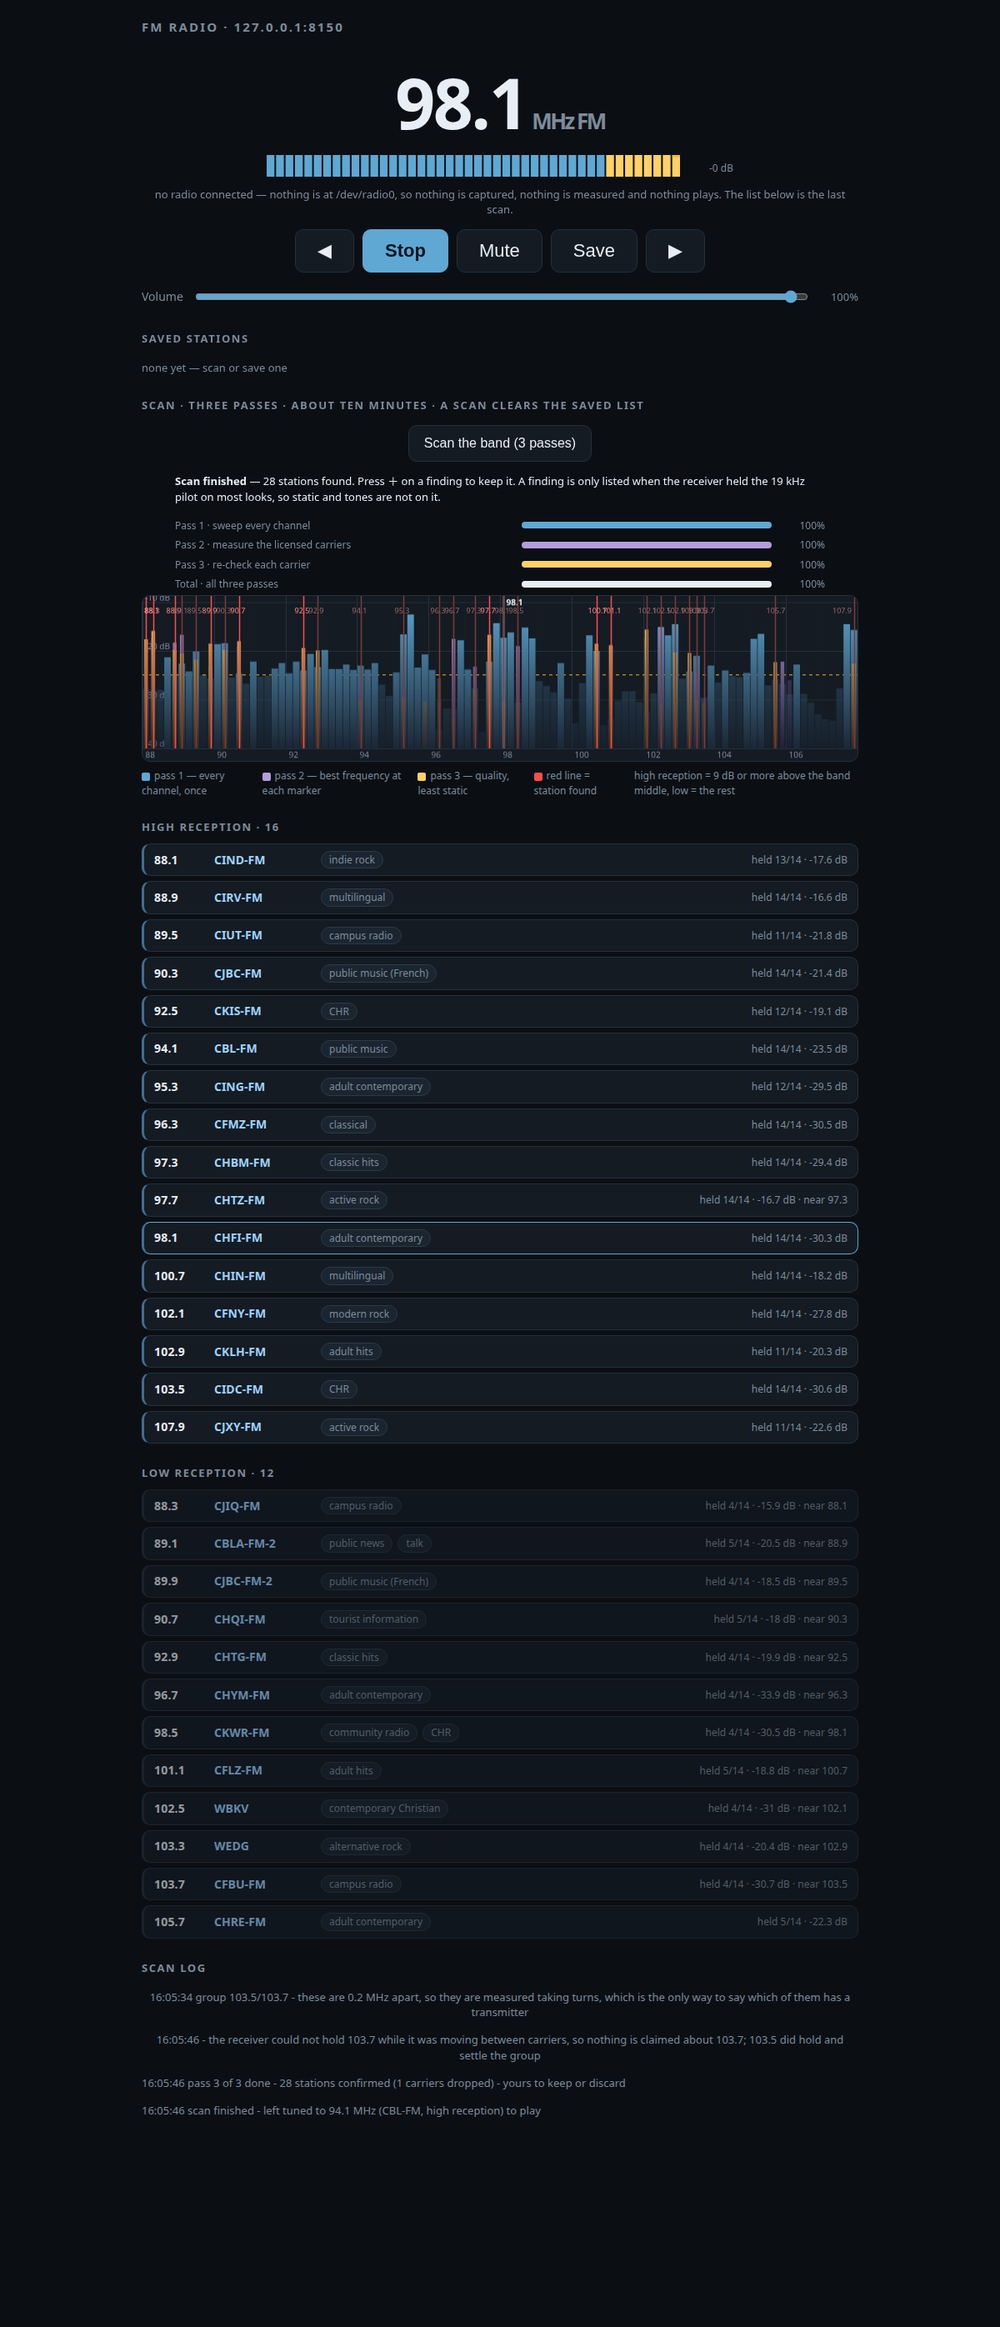
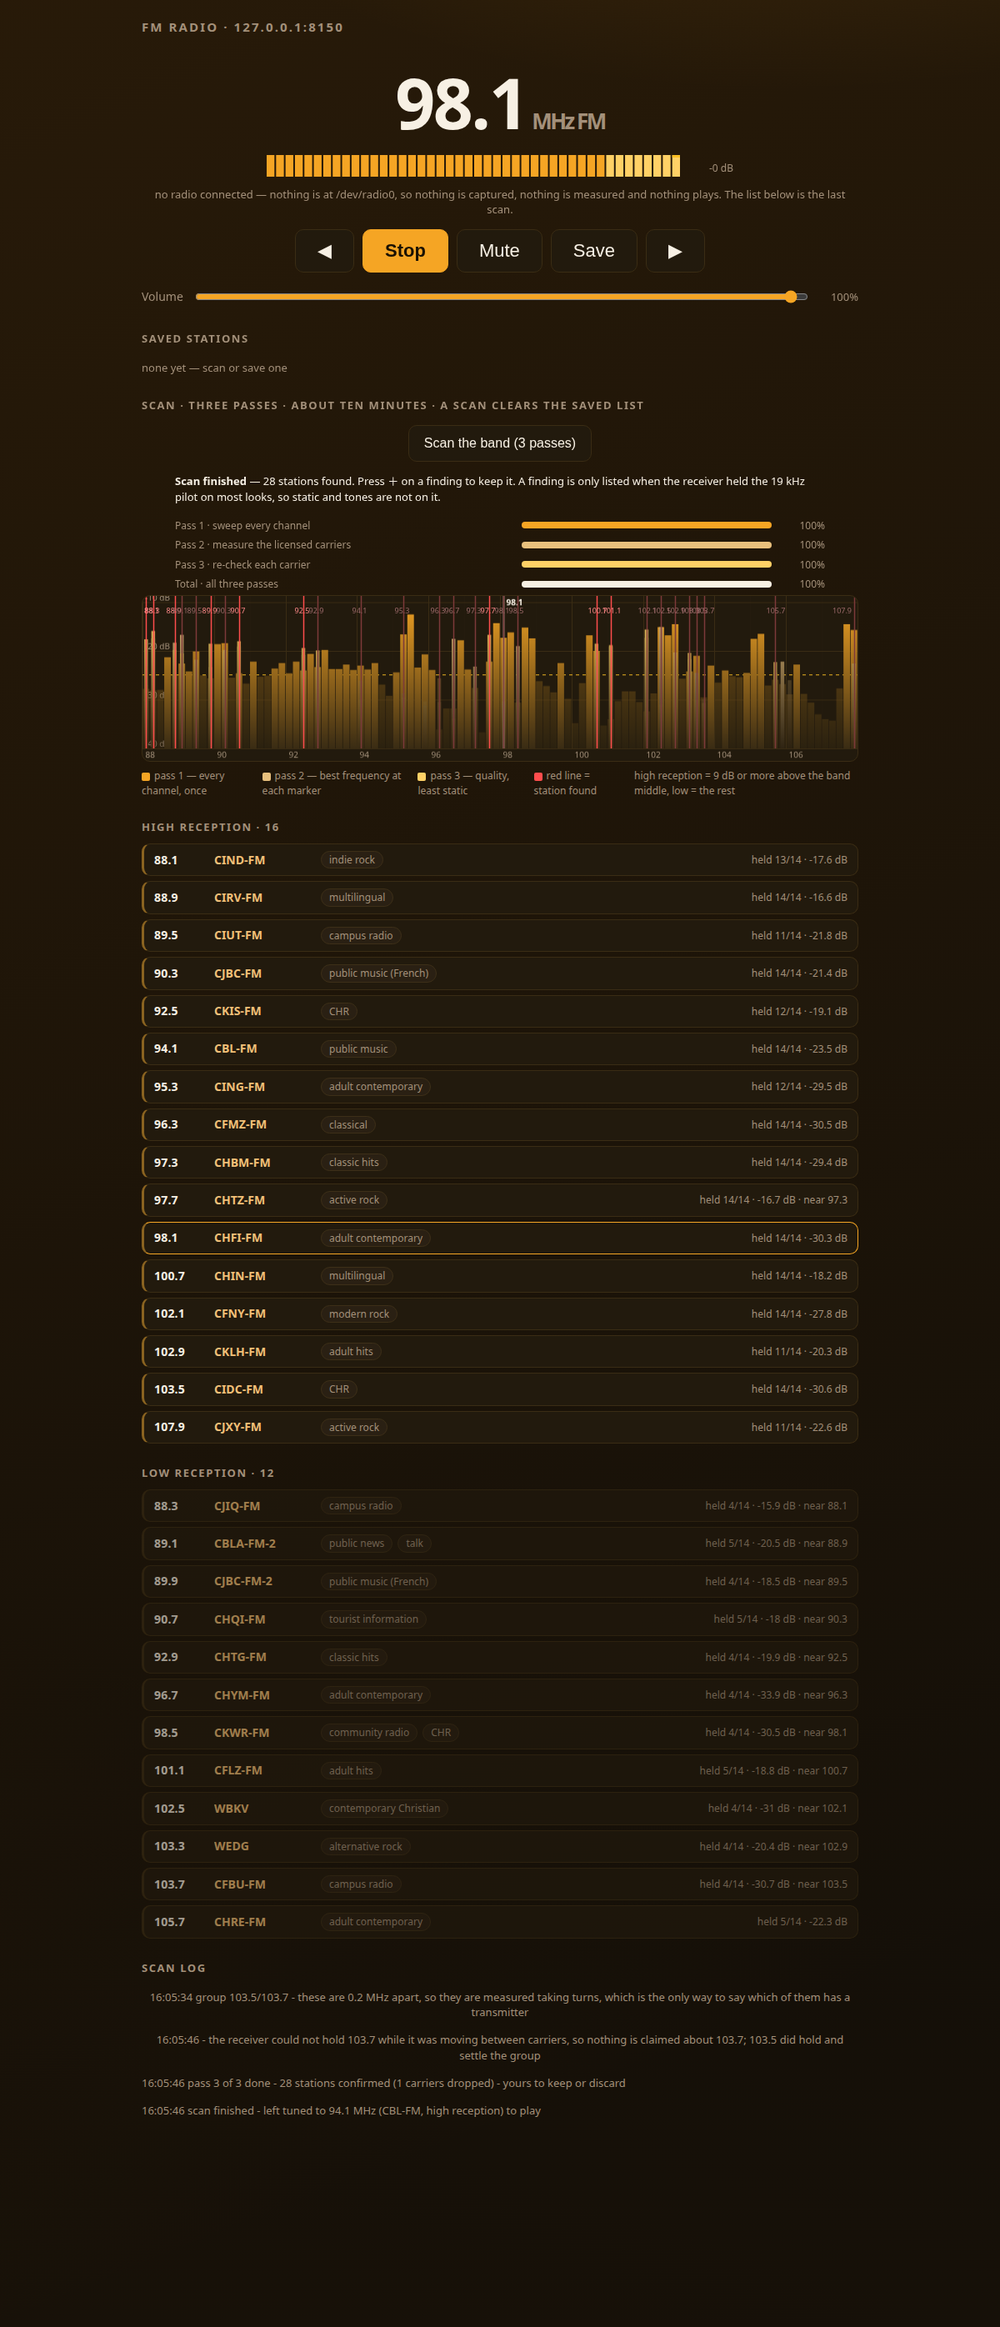
Put the app on the site's own palette, and refresh the screenshot
The background is the site's colour (#140f08) with the family's treatment — the same three
gradients that fade to nothing, on a fixed layer — and the accents follow it: card, hairline,
dim text and the amber accent, including the colours the spectrum chart draws with. A warm
background with cool blue chrome reads as two designs, which is what it was.

diff --git a/fm_radio.py b/fm_radio.py
@@ -1463,8 +1463,17 @@ def scan_worker():
 PAGE = """<!doctype html><html lang="en"><head><meta charset="utf-8">
 <title>127.0.0.1:8150</title><meta name="viewport" content="width=device-width,initial-scale=1">
 <style>
-:root{--bg:#0b0f14;--fg:#e8eef5;--dim:#7d8b9a;--acc:#5fa8d3;--card:#141b23;--warn:#fbbf24}
-*{box-sizing:border-box}body{margin:0;background:var(--bg);color:var(--fg);
+/* 🔴 THE BACKGROUND IS THE SITE'S OWN COLOUR, AND ITS TREATMENT IS THE FAMILY'S — the same warm
+   near-black and the same three gradients that fade to nothing (a gradient wash, never bands),
+   so the app and its page read as one product rather than two. The accents come from the same
+   palette for the same reason: a warm background with cool blue chrome looks like two designs. */
+:root{--bg:#140f08;--fg:#f7f0e4;--dim:#a3907a;--acc:#f5a524;--card:#221a0d;--line:#3a2c14;--warn:#fbbf24}
+*{box-sizing:border-box}body{margin:0;color:var(--fg);
+background-color:var(--bg);
+background-image:radial-gradient(1100px 520px at 78% -6%,rgba(245,165,36,.13),transparent 72%),
+linear-gradient(158deg,rgba(180,105,12,.12),transparent 58%),
+linear-gradient(18deg,rgba(120,70,8,.1),transparent 52%);
+background-attachment:fixed;
 font:16px/1.45 system-ui,-apple-system,Segoe UI,sans-serif;padding:22px}
 h1{font-size:15px;font-weight:600;letter-spacing:.14em;text-transform:uppercase;color:var(--dim);margin:0 0 18px}
 .wrap{max-width:860px;margin:0 auto}
@@ -1474,11 +1483,11 @@ h1{font-size:15px;font-weight:600;letter-spacing:.14em;text-transform:uppercase;
 .meter canvas{width:100%;height:26px;display:block}
 .meter span{min-width:54px;text-align:right;font-size:12px}
 .row{display:flex;gap:10px;flex-wrap:wrap;justify-content:center;margin:14px 0}
-button{background:var(--card);color:var(--fg);border:1px solid #24303c;border-radius:10px;
+button{background:var(--card);color:var(--fg);border:1px solid var(--line);border-radius:10px;
 padding:12px 18px;font-size:16px;cursor:pointer}
-button:hover{border-color:#3a4a5c}button.big{font-size:22px;padding:12px 26px}
-button.on{background:var(--acc);color:#06131d;border-color:var(--acc);font-weight:700}
-input{background:var(--card);color:var(--fg);border:1px solid #24303c;border-radius:10px;
+button:hover{border-color:#5a4520}button.big{font-size:22px;padding:12px 26px}
+button.on{background:var(--acc);color:#1a1103;border-color:var(--acc);font-weight:700}
+input{background:var(--card);color:var(--fg);border:1px solid var(--line);border-radius:10px;
 padding:12px;font-size:18px;width:110px;text-align:center}
 .pgh{color:var(--fg);font-size:13px;max-width:780px;margin:14px auto 0;text-align:left;line-height:1.5}
 .prog{max-width:780px;margin:12px auto 2px}
@@ -1489,9 +1498,9 @@ color:var(--dim);font-size:12px;padding:3px 0}
 .pgrow.now{color:var(--fg)}.pgrow.now .pgl{font-weight:700}.pgv{text-align:right}
 @media(max-width:800px){.pgrow{grid-template-columns:1fr 120px 46px}}
 .list{display:flex;gap:8px;flex-wrap:wrap}
-.chip{background:var(--card);border:1px solid #24303c;border-radius:99px;padding:8px 14px;cursor:pointer}
+.chip{background:var(--card);border:1px solid var(--line);border-radius:99px;padding:8px 14px;cursor:pointer}
 .chip:hover{border-color:var(--acc)}.chip.cur{border-color:var(--acc);color:var(--acc);font-weight:700}
-.chip.hi{border-color:#3f6f92}.chip.lo{opacity:.55}
+.chip.hi{border-color:#8a6320}.chip.lo{opacity:.55}
 .chip x{color:var(--dim);margin-left:8px}.chip .cl{color:var(--dim);font-style:normal;font-size:12px;margin-left:6px}
 /* 🔴 A LIST, NOT A BAG OF CHIPS: frequency, call sign and the genres, one
    station per line, in frequency order. The frequency column is a fixed width and the digits are
@@ -1505,16 +1514,16 @@ color:var(--dim);font-size:12px;padding:3px 0}
 #sthi,#stlo{display:flex;flex-direction:column;flex-wrap:nowrap;gap:6px;align-items:stretch}
 #sthi .strow,#stlo .strow{width:100%}
 .strow{display:grid;grid-template-columns:62px 118px minmax(0,1fr) auto;gap:10px;align-items:center;
-background:var(--card);border:1px solid #24303c;border-left:3px solid #24303c;border-radius:10px;
+background:var(--card);border:1px solid var(--line);border-left:3px solid var(--line);border-radius:10px;
 padding:8px 12px;cursor:pointer;font-size:14px}
 .strow:hover{border-color:var(--acc);border-left-color:var(--acc)}
 .strow.cur{border-color:var(--acc);border-left-color:var(--acc)}
-.strow.hi{border-left-color:#3f6f92}
+.strow.hi{border-left-color:#8a6320}
 .strow.lo{opacity:.62}
 .strow .fq{font-variant-numeric:tabular-nums;font-weight:700;letter-spacing:.2px}
-.strow .cs{color:#9fd3ff;font-weight:600;white-space:nowrap;overflow:hidden;text-overflow:ellipsis}
+.strow .cs{color:#f2c078;font-weight:600;white-space:nowrap;overflow:hidden;text-overflow:ellipsis}
 .strow .gn{display:flex;gap:6px;flex-wrap:wrap;min-width:0}
-.strow .gt{background:#1b2530;border:1px solid #2b3a49;border-radius:99px;padding:1px 9px;
+.strow .gt{background:#2a2013;border:1px solid #3d2f18;border-radius:99px;padding:1px 9px;
 font-size:12px;font-style:normal;color:var(--dim);white-space:nowrap}
 .strow .ev{color:var(--dim);font-size:12px;text-align:right;white-space:nowrap}
 /* THE VOLUME SLIDER. It sets the RADIO's own capture level, not the machine's speaker volume, so
@@ -1527,15 +1536,15 @@ accent-color:var(--acc);cursor:pointer}
 text-align:right}
 .note{color:var(--dim);font-size:13px;text-align:center;margin-top:6px}
 h2{font-size:13px;letter-spacing:.12em;text-transform:uppercase;color:var(--dim);margin:26px 0 10px}
-#cv{width:100%;height:200px;display:block;background:var(--card);border:1px solid #24303c;border-radius:10px;cursor:crosshair}
+#cv{width:100%;height:200px;display:block;background:var(--card);border:1px solid var(--line);border-radius:10px;cursor:crosshair}
 .legend{display:flex;gap:18px;justify-content:center;color:var(--dim);font-size:12px;margin-top:8px}
-#toast{position:fixed;left:50%;transform:translateX(-50%);bottom:26px;background:#141b23;
+#toast{position:fixed;left:50%;transform:translateX(-50%);bottom:26px;background:#221a0d;
 border:1px solid var(--acc);color:var(--fg);padding:12px 20px;border-radius:12px;font-size:15px;
 opacity:0;transition:opacity .3s;pointer-events:none;max-width:520px;text-align:center;z-index:9}
 #toast.show{opacity:1}
-#mo{position:fixed;inset:0;background:rgba(3,6,9,.72);display:flex;align-items:center;
+#mo{position:fixed;inset:0;background:rgba(10,7,3,.72);display:flex;align-items:center;
 justify-content:center;z-index:10}#mo[hidden]{display:none}
-#mo .box{background:#141b23;border:1px solid #2d3a48;border-radius:14px;padding:22px 24px;max-width:420px}
+#mo .box{background:#221a0d;border:1px solid #3d2f18;border-radius:14px;padding:22px 24px;max-width:420px}
 #mo h3{margin:0 0 8px;font-size:17px}#mo p{margin:0 0 16px;color:var(--dim);font-size:14px}
 .sw{display:inline-block;width:10px;height:10px;border-radius:2px;margin-right:5px;vertical-align:middle}
 </style></head><body><div class="wrap">
@@ -1563,8 +1572,8 @@ justify-content:center;z-index:10}#mo[hidden]{display:none}
 <div id="pg" class="prog"></div>
 <canvas id="cv" onclick="clickChart(event)"></canvas>
 <div class="legend">
-  <span><i class="sw" style="background:#5fa8d3"></i>pass 1 &mdash; every channel, once</span>
-  <span><i class="sw" style="background:#b39ddb"></i>pass 2 &mdash; best frequency at each marker</span>
+  <span><i class="sw" style="background:#f5a524"></i>pass 1 &mdash; every channel, once</span>
+  <span><i class="sw" style="background:#e8c07d"></i>pass 2 &mdash; best frequency at each marker</span>
   <span><i class="sw" style="background:#ffd166"></i>pass 3 &mdash; quality, least static</span>
   <span><i class="sw" style="background:#ff4d4d"></i>red line = station found</span>
   <span>high reception = 9 dB or more above the band middle, low = the rest</span>
@@ -1718,7 +1727,7 @@ function progress(q){
   const L=[['1','Pass 1 \u00b7 sweep every channel'],
            ['2','Pass 2 \u00b7 measure the licensed carriers'],
            ['3','Pass 3 \u00b7 re-check each carrier']];
-  const C={1:'#5fa8d3',2:'#b39ddb',3:'#ffd166'};
+  const C={1:'#f5a524',2:'#e8c07d',3:'#ffd166'};
   let h='';
   for(const [k,label] of L){
     const f=Math.max(0,Math.min(1,p[k]||0)), now=run&&String(q.phase)===k;
@@ -1728,7 +1737,7 @@ function progress(q){
   }
   const t=Math.max(0,Math.min(1,p.total||0));
   h+='<div class="pgrow tot"><span class="pgl">Total \u00b7 all three passes</span>'
-   +'<span class="pgt"><i style="width:'+(t*100).toFixed(1)+'%;background:#e8eef5"></i></span>'
+   +'<span class="pgt"><i style="width:'+(t*100).toFixed(1)+'%;background:#f7f0e4"></i></span>'
    +'<span class="pgv">'+Math.round(t*100)+'%</span></div>';
   document.getElementById('pg').innerHTML=h;
   let line;
@@ -1757,19 +1766,19 @@ function draw(pts,st,base,run){
   const DY=h-pad, LO=-40, HI=-10;
   const YL=l=>DY-Math.max(0,Math.min(HI-LO,l-LO))/(HI-LO)*(DY-8);
   const thr=(base!=null)?base+4:null;
-  x.strokeStyle='#24303c';x.fillStyle='#7d8b9a';x.font='10px system-ui';x.lineWidth=1;
+  x.strokeStyle='#3a2c14';x.fillStyle='#a3907a';x.font='10px system-ui';x.lineWidth=1;
   for(let f=88;f<=108;f+=1){                        // 1 MHz minors, 2 MHz labelled
-    const px=Math.round(X(f,w))+.5;x.strokeStyle=(f%2)?'#161d25':'#24303c';
+    const px=Math.round(X(f,w))+.5;x.strokeStyle=(f%2)?'#241b0e':'#3a2c14';
     x.beginPath();x.moveTo(px,0);x.lineTo(px,DY);x.stroke();
     if(!(f%2))x.fillText(f,px+3,h-4);
   }
-  x.strokeStyle='#24303c';
+  x.strokeStyle='#3a2c14';
   for(let l=LO;l<=HI;l+=10){const py=Math.round(YL(l))+.5;x.beginPath();x.moveTo(0,py);x.lineTo(w,py);x.stroke();
     x.fillText(l+' dB',3,py-3);}
   if(thr!=null){x.strokeStyle='#fbbf24';x.setLineDash([4,4]);const by=Math.round(YL(thr))+.5;
     x.beginPath();x.moveTo(0,by);x.lineTo(w,by);x.stroke();x.setLineDash([]);}
   const ramp=(a,b)=>{const g=x.createLinearGradient(0,DY,0,0);g.addColorStop(0,a);g.addColorStop(1,b);return g};
-  const G1=ramp('#1b2735','#5fa8d3'), G2=ramp('#241d3d','#b39ddb'), G3=ramp('#3d2c14','#ffd166');
+  const G1=ramp('#3a2c14','#f5a524'), G2=ramp('#2f2413','#e8c07d'), G3=ramp('#3d2c14','#ffd166');
   const bw1=Math.max(3,w/100*0.92);  // pass 1 samples every real channel, so its bars are narrow
   const bw2=Math.max(2,w/200*1.04);  // passes 2 and 3 sit exactly on the real channels
   for(const p of pts){
@@ -1785,10 +1794,10 @@ function draw(pts,st,base,run){
   // while a scan runs the marker follows the pen, so the sweep is visible instead of
   // frozen at wherever the radio was last left; otherwise it is where you are tuned
   const cur=(run&&pts.length)?pts[pts.length-1][0]:(S.freq||98.1);
-  x.strokeStyle='#e8eef5';x.lineWidth=1.5;
+  x.strokeStyle='#f7f0e4';x.lineWidth=1.5;
   const cx=Math.round(X(cur,w))+.5;
   x.beginPath();x.moveTo(cx,0);x.lineTo(cx,DY);x.stroke();x.lineWidth=1;
-  x.fillStyle='#e8eef5';x.font='bold 10px system-ui';
+  x.fillStyle='#f7f0e4';x.font='bold 10px system-ui';
   x.fillText(fmt(cur),Math.min(w-32,Math.max(2,cx+3)),12);
   x.lineWidth=1.5;x.font='9px system-ui';                    // a red line marks each station found
   for(const s of st){
@@ -1851,7 +1860,7 @@ function drawMeter(){
   for(let i=0;i<N;i++){
     const hot=i>=N-8;
     x.globalAlpha=(i<lit)?1:0.12;
-    x.fillStyle=hot?'#ffd166':'#5fa8d3';
+    x.fillStyle=hot?'#ffd166':'#f5a524';
     x.fillRect(i*(sw+gap),0,sw,h);
   }
   if(pl>0){x.globalAlpha=1;x.fillStyle='#fbbf24';x.fillRect((pl-1)*(sw+gap),0,sw,3)}
